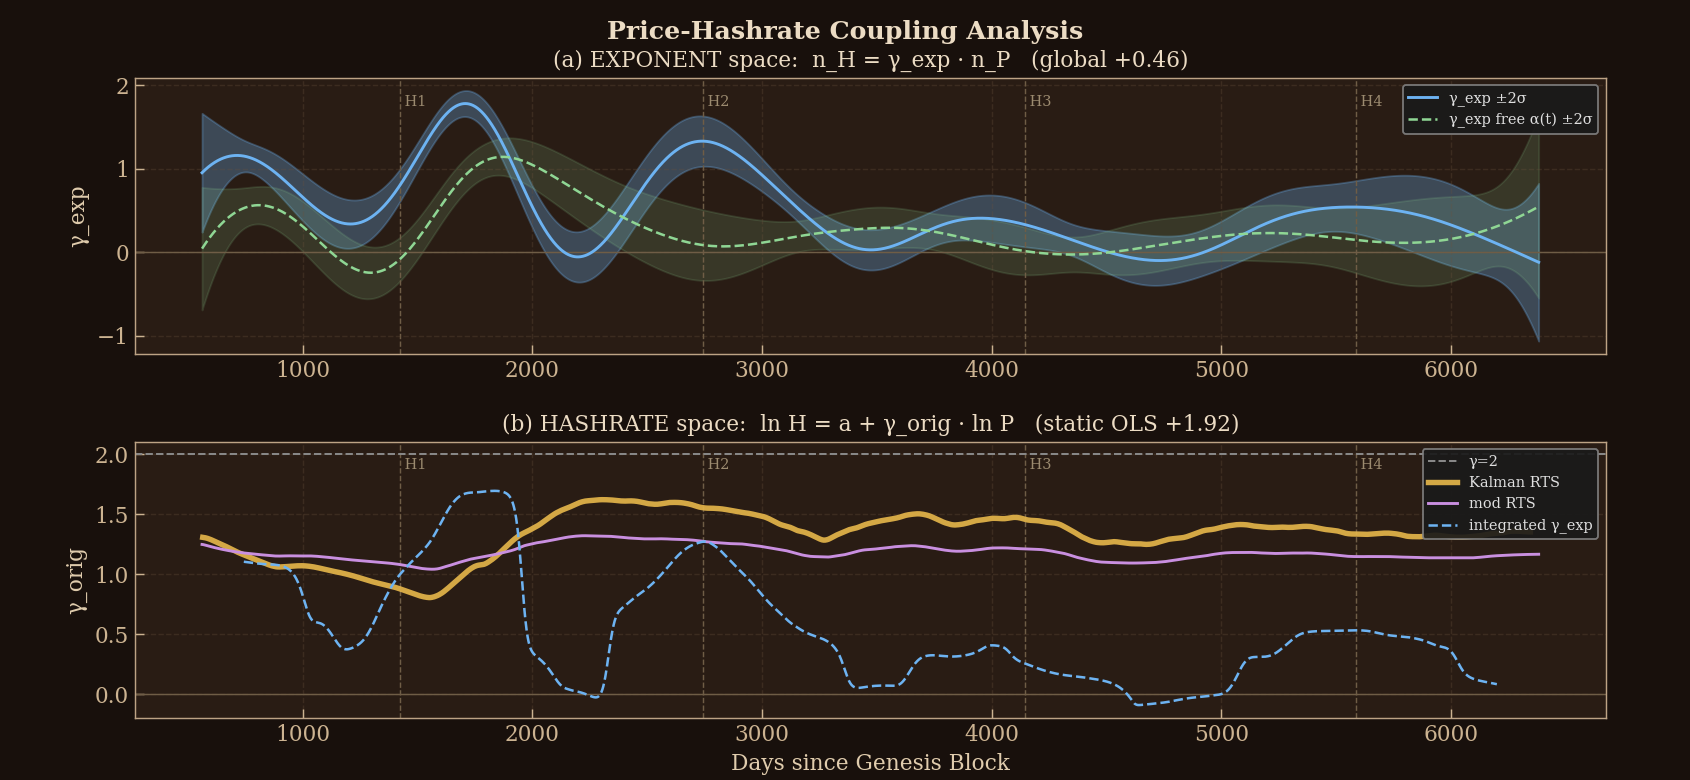
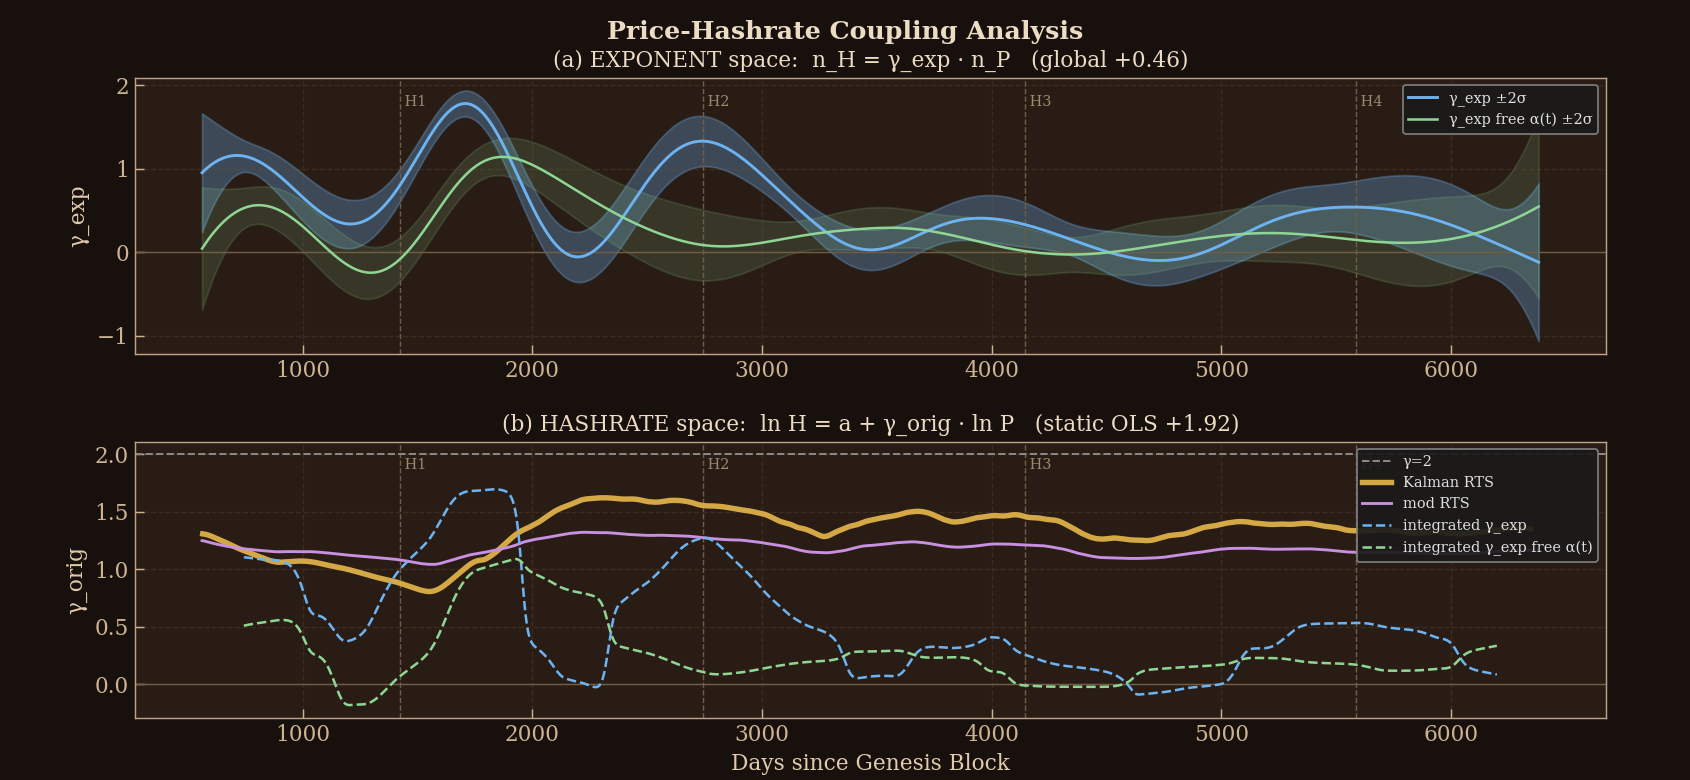
ssmix_TVP: integrate free-alpha gamma back to hashrate space (panel b, green dashed); gamma_fa solid in panel a; document step 2b in README

diff --git a/ssmix_TVP_plot2.py b/ssmix_TVP_plot2.py
@@ -1,14 +1,16 @@
 #!/usr/bin/env python3
 """ssmix_TVP_plot2.py -- PLOT (b): coupling in HASHRATE space (ln H on ln P), gamma_orig(t).
 
-THREE estimates of the hashrate-space gamma (ln H = a_t + gamma_t ln P):
+FOUR estimates of the hashrate-space gamma (ln H = a_t + gamma_t ln P):
   1. Adriano DOCX (gl_adr, weekly Gaussian RTS) -- FROZEN, matches the paper.
   2. our estimator + OUR noise (gl_ours, hashrate-space Kalman, Student-t per cycle, option y).
   3. our exponent gamma integrated back (glev_from_exp).
+  4. the free-intercept gamma_fa integrated back (glev_from_exp_fa; alpha(t) not integrated).
 """
 from ssmix_TVP_methods import COL_G, COL_REF, COLOR_TXT, draw_halvings, legend
 
 COL_INT = '#c98fe0'   # lila -- benutzt fuer 'mod RTS' (gl_ours)
+COL_FA = '#8fd694'    # gruen -- same as PANEL 1 free-intercept curve (gamma_fa)
 
 
 def draw(ax, R):
@@ -21,6 +23,9 @@ def draw(ax, R):
     ax.plot(g, R['gl_ours'], color=COL_INT, lw=1.6, label='mod RTS')
     # integrated gamma_exp -- colour taken from PANEL 1 (COL_G), dashed
     ax.plot(g, R['glev_from_exp'], color=COL_G, lw=1.4, ls='--', label='integrated γ_exp')
+    # integrated gamma_fa (free alpha) -- colour taken from PANEL 1 (COL_FA), dashed
+    ax.plot(g, R['glev_from_exp_fa'], color=COL_FA, lw=1.4, ls='--',
+            label='integrated γ_exp free α(t)')
     ax.set_ylabel('γ_orig')
     ax.set_title(f"(b) HASHRATE space:  ln H = a + γ_orig · ln P   (static OLS {R['lev_g']:+.2f})",
                  color=COLOR_TXT, fontsize=12)

diff --git a/ssmix_TVP_methods.py b/ssmix_TVP_methods.py
@@ -337,13 +337,16 @@ def compute(SG, bw, bwg, poly, win, bwl):
     gamma_fa, sg_fa, alpha_fa, g0_fa = tvp_gamma_free_alpha(zP, szP, zH, szH, bwg, poly)  # STEP 2b: free-intercept check
     lnH_rec = integrate_exp_to_level(gamma, slnP, slnH)                   # STEP 4: integrate it back
     glev_from_exp, _ = rolling_slope(slnP, lnH_rec, win)                  #  -> curve 1 (our integrated)
+    lnH_rec_fa = integrate_exp_to_level(gamma_fa, slnP, slnH)             # STEP 4 for gamma_fa (free-alpha check)
+    glev_from_exp_fa, _ = rolling_slope(slnP, lnH_rec_fa, win)            #  -> its integrated curve
     gl_adr, gl_adr_sd = adriano_original_gamma(g)                            # curve: Adriano DOCX (FROZEN)
     gl_ours, gl_ours_sd, mod_noise = level_tvp_kalman(slnP, slnH, g, bwl, noise='ours',
                                                       return_noise=True) # curve: option y (our noise)
     lev, lev_g = level_gamma_per_cycle(slnP, slnH, g)
     return dict(g=g, zP=zP, zH=zH, gamma=gamma, sg_=sg_, g0=g0,
                 gamma_fa=gamma_fa, sg_fa=sg_fa, alpha_fa=alpha_fa, g0_fa=g0_fa,
-                glev_from_exp=glev_from_exp, gl_adr=gl_adr, gl_adr_sd=gl_adr_sd,
+                glev_from_exp=glev_from_exp, glev_from_exp_fa=glev_from_exp_fa,
+                gl_adr=gl_adr, gl_adr_sd=gl_adr_sd,
                 gl_ours=gl_ours, gl_ours_sd=gl_ours_sd, mod_noise=mod_noise,
                 lev=lev, lev_g=lev_g)
 

diff --git a/ssmix_TVP_plot1.py b/ssmix_TVP_plot1.py
@@ -17,7 +17,7 @@ def draw(ax, R):
     # free-intercept check: same Kalman, alpha(t) free instead of pinned to 0
     ax.fill_between(g, R['gamma_fa'] - 2 * R['sg_fa'], R['gamma_fa'] + 2 * R['sg_fa'],
                     color=COL_FA, alpha=0.15)
-    ax.plot(g, R['gamma_fa'], color=COL_FA, lw=1.4, ls='--', label='γ_exp free α(t) ±2σ')
+    ax.plot(g, R['gamma_fa'], color=COL_FA, lw=1.4, label='γ_exp free α(t) ±2σ')
     ax.set_ylabel('γ_exp')
     ax.set_title(f"(a) EXPONENT space:  n_H = γ_exp · n_P   (global {R['g0']:+.2f})",
                  color=COLOR_TXT, fontsize=12)